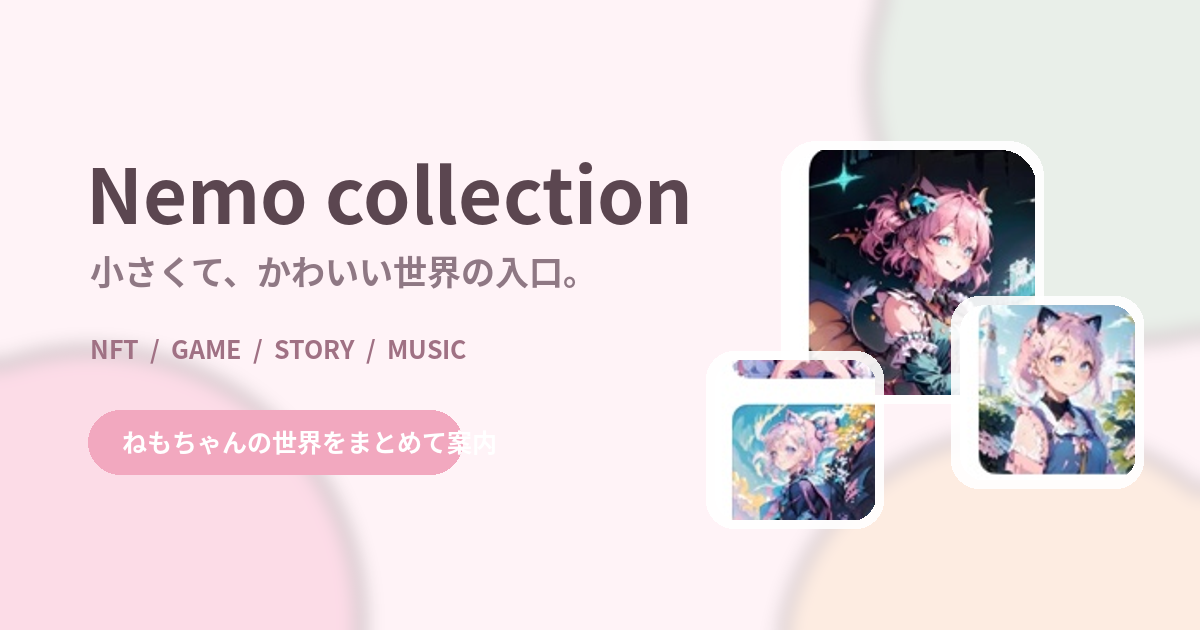
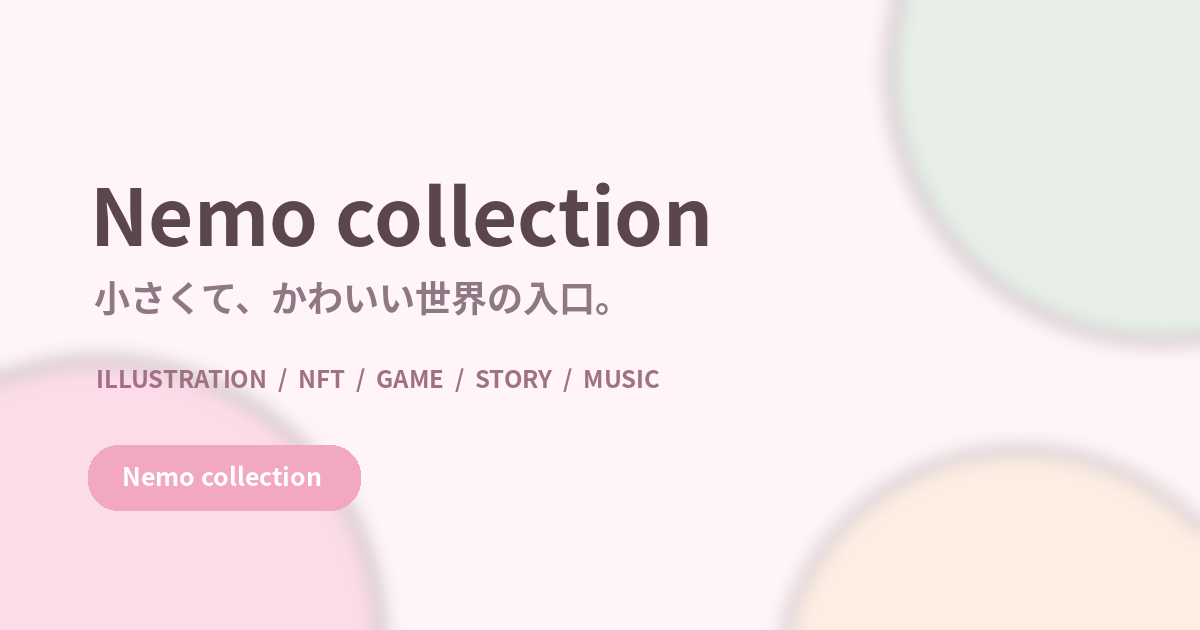
Add files via upload

diff --git a/index.html b/index.html
@@ -15,7 +15,7 @@
   <meta property="og:type" content="website" />
   <meta property="og:site_name" content="Nemo collection" />
   <meta property="og:title" content="Nemo collection（ねもコレ）｜NFT・ゲーム・音楽・物語の公式ポータル" />
-  <meta property="og:description" content="Nemo collection（ねもコレ）の公式ポータル。179体のねもちゃんが暮らすNFTゲーム「ねもの村」、Nemo Mystery、OpenSea NFTコレクション、note、Apple Music、YouTubeなど、ねもちゃんの作品と活動をまとめて紹介します。" />
+  <meta property="og:description" content="Nemo collection（ねもコレ）の公式ポータル。ねもちゃんを中心に、イラスト、NFT、物語、WEBゲーム、音楽など、これまで生まれた作品と活動をまとめています。「ねもの村」「Nemo Mystery」、OpenSea、note、Apple Music、YouTubeなどを案内します。" />
   <meta property="og:url" content="https://haine-cpu7.github.io/nemo-collection-home/" />
   <meta property="og:image" content="https://haine-cpu7.github.io/nemo-collection-home/assets/og-nemo-collection.png" />
   <meta property="og:image:secure_url" content="https://haine-cpu7.github.io/nemo-collection-home/assets/og-nemo-collection.png" />
@@ -25,7 +25,7 @@
 
   <meta name="twitter:card" content="summary_large_image" />
   <meta name="twitter:title" content="Nemo collection（ねもコレ）｜NFT・ゲーム・音楽・物語の公式ポータル" />
-  <meta name="twitter:description" content="Nemo collection（ねもコレ）の公式ポータル。179体のねもちゃんが暮らすNFTゲーム「ねもの村」、Nemo Mystery、OpenSea NFTコレクション、note、Apple Music、YouTubeなど、ねもちゃんの作品と活動をまとめて紹介します。" />
+  <meta name="twitter:description" content="Nemo collection（ねもコレ）の公式ポータル。ねもちゃんを中心に、イラスト、NFT、物語、WEBゲーム、音楽など、これまで生まれた作品と活動をまとめています。「ねもの村」「Nemo Mystery」、OpenSea、note、Apple Music、YouTubeなどを案内します。" />
   <meta name="twitter:image" content="https://haine-cpu7.github.io/nemo-collection-home/assets/og-nemo-collection.png" />
   <meta name="twitter:image:alt" content="Nemo collection - 小さくて、かわいい世界の入口" />
 
@@ -34,7 +34,7 @@
   <link rel="manifest" href="site.webmanifest" />
 
   <title>Nemo collection（ねもコレ）｜NFT・ゲーム・音楽・物語の公式ポータル</title>
-  <meta name="description" content="Nemo collection（ねもコレ）の公式ポータル。179体のねもちゃんが暮らすNFTゲーム「ねもの村」、Nemo Mystery、OpenSea NFTコレクション、note、Apple Music、YouTubeなど、ねもちゃんの作品と活動をまとめて紹介します。" />
+  <meta name="description" content="Nemo collection（ねもコレ）の公式ポータル。ねもちゃんを中心に、イラスト、NFT、物語、WEBゲーム、音楽など、これまで生まれた作品と活動をまとめています。「ねもの村」「Nemo Mystery」、OpenSea、note、Apple Music、YouTubeなどを案内します。" />
   <style>
     :root {
       --paper: #fff8fb;
@@ -350,17 +350,10 @@
       border-color: rgba(242, 168, 191, 0.45);
     }
 
-    .media-card-feature {
-      grid-column: span 2;
-    }
-
     .media-thumb {
       position: relative;
-      min-height: 208px;
+      min-height: 220px;
       padding: 18px;
-      display: flex;
-      align-items: flex-end;
-      justify-content: flex-start;
       overflow: hidden;
     }
 
@@ -368,25 +361,24 @@
     .media-thumb::after {
       content: "";
       position: absolute;
-      border-radius: 28px;
+      border-radius: 32px;
       pointer-events: none;
     }
 
     .media-thumb::before {
-      width: 120px;
-      height: 120px;
-      right: 16px;
-      top: 16px;
-      background: rgba(255,255,255,0.34);
-      box-shadow: inset 0 1px 0 rgba(255,255,255,0.35);
+      width: 132px;
+      height: 132px;
+      right: 18px;
+      top: 18px;
+      background: rgba(255,255,255,0.24);
     }
 
     .media-thumb::after {
-      width: 84px;
-      height: 84px;
-      right: 38px;
-      top: 34px;
-      background: rgba(255,255,255,0.18);
+      width: 94px;
+      height: 94px;
+      left: 20px;
+      bottom: 18px;
+      background: rgba(255,255,255,0.14);
     }
 
     .media-thumb.music {
@@ -401,97 +393,19 @@
       background: linear-gradient(135deg, #f7bfd0 0%, #d9c8ff 50%, #c1efe4 100%);
     }
 
-    .media-thumb.feature {
-      min-height: 250px;
-      align-items: center;
-      justify-content: center;
-      padding: 22px 24px;
-    }
-
-    .media-art {
+    .media-photo {
       position: relative;
-      width: 112px;
-      height: 112px;
-      border-radius: 24px;
-      background: rgba(255,255,255,0.28);
-      border: 1px solid rgba(255,255,255,0.42);
-      box-shadow: 0 12px 24px rgba(79, 57, 70, 0.14);
-      display: grid;
-      place-items: center;
-      font-size: 2.4rem;
-      backdrop-filter: blur(4px);
       z-index: 1;
-      overflow: hidden;
-    }
-
-    .media-art.media-art-tall {
-      width: 136px;
-      height: 136px;
-      border-radius: 28px;
-    }
-
-    .media-art img {
       width: 100%;
-      height: 100%;
-      object-fit: cover;
-      display: block;
-    }
-
-    .media-stack {
-      position: relative;
-      width: min(100%, 360px);
-      height: 190px;
-    }
-
-    .stack-card {
-      position: absolute;
-      width: 138px;
-      height: 138px;
-      border-radius: 28px;
+      height: 184px;
+      border-radius: 24px;
       overflow: hidden;
-      border: 1px solid rgba(255,255,255,0.58);
-      box-shadow: 0 18px 30px rgba(91, 70, 80, 0.14);
-      background: rgba(255,255,255,0.6);
+      border: 1px solid rgba(255,255,255,0.68);
+      box-shadow: 0 14px 28px rgba(79, 57, 70, 0.12);
+      background: rgba(255,255,255,0.38);
     }
 
-    .stack-card img {
-      width: 100%;
-      height: 100%;
-      object-fit: cover;
-      display: block;
-    }
-
-    .stack-a { left: 8px; top: 28px; transform: rotate(-10deg); z-index: 1; }
-    .stack-b { left: 112px; top: 6px; transform: rotate(4deg); z-index: 3; width: 150px; height: 150px; }
-    .stack-c { left: 228px; top: 36px; transform: rotate(10deg); z-index: 2; }
-
-    .media-glow {
-      position: absolute;
-      inset: auto auto 20px 24px;
-      padding: 6px 12px;
-      border-radius: 999px;
-      background: rgba(255,255,255,0.72);
-      color: #8f7180;
-      font-size: 0.74rem;
-      border: 1px solid rgba(255,255,255,0.5);
-      z-index: 4;
-    }
-
-    .hero-sticker {
-      position: absolute;
-      right: clamp(18px, 5vw, 42px);
-      bottom: clamp(18px, 4vw, 34px);
-      width: 74px;
-      height: 74px;
-      border-radius: 22px;
-      overflow: hidden;
-      border: 1px solid rgba(255,255,255,0.56);
-      box-shadow: 0 12px 26px rgba(164, 118, 140, 0.12);
-      opacity: 0.88;
-      background: rgba(255,255,255,0.5);
-    }
-
-    .hero-sticker img {
+    .media-photo img {
       width: 100%;
       height: 100%;
       object-fit: cover;
@@ -527,24 +441,16 @@
     }
 
     @media (max-width: 720px) {
+
       .shell { width: min(100% - 20px, 1080px); padding-top: 16px; }
       .topbar { padding: 5px 3px 14px; }
       .hero { border-radius: 30px; }
       .grid { grid-template-columns: 1fr; }
       .media-grid { grid-template-columns: 1fr; }
-      .media-card-feature { grid-column: span 1; }
-      .media-thumb.feature { min-height: 220px; }
-      .media-stack { width: 100%; height: 168px; }
-      .stack-card { width: 112px; height: 112px; border-radius: 24px; }
-      .stack-a { left: 2px; top: 34px; }
-      .stack-b { left: 84px; top: 8px; width: 124px; height: 124px; }
-      .stack-c { left: 182px; top: 40px; }
-      .media-art.media-art-tall { width: 120px; height: 120px; border-radius: 24px; }
       .section { padding-top: 36px; }
       .section-head { align-items: start; flex-direction: column; gap: 4px; }
       .card { min-height: 0; padding: 19px; }
       .collection-group { padding: 14px; }
-      .hero-sticker { width: 58px; height: 58px; border-radius: 18px; right: 14px; bottom: 14px; }
     }
   </style>
 
@@ -561,7 +467,7 @@
         "ねもコレ",
         "Nemo Collection"
       ],
-      "description": "Nemo collection（ねもコレ）の公式ポータル。179体のねもちゃんが暮らすNFTゲーム「ねもの村」、Nemo Mystery、OpenSea NFTコレクション、note、Apple Music、YouTubeなど、ねもちゃんの作品と活動をまとめて紹介します。",
+      "description": "Nemo collection（ねもコレ）の公式ポータル。ねもちゃんを中心に、イラスト、NFT、物語、WEBゲーム、音楽など、これまで生まれた作品と活動をまとめています。「ねもの村」「Nemo Mystery」、OpenSea、note、Apple Music、YouTubeなどを案内します。",
       "inLanguage": "ja",
       "sameAs": [
         "https://note.com/nemocollection",
@@ -582,7 +488,7 @@
       "@id": "https://haine-cpu7.github.io/nemo-collection-home/#webpage",
       "url": "https://haine-cpu7.github.io/nemo-collection-home/",
       "name": "Nemo collection（ねもコレ）｜NFT・ゲーム・音楽・物語の公式ポータル",
-      "description": "Nemo collection（ねもコレ）の公式ポータル。179体のねもちゃんが暮らすNFTゲーム「ねもの村」、Nemo Mystery、OpenSea NFTコレクション、note、Apple Music、YouTubeなど、ねもちゃんの作品と活動をまとめて紹介します。",
+      "description": "Nemo collection（ねもコレ）の公式ポータル。ねもちゃんを中心に、イラスト、NFT、物語、WEBゲーム、音楽など、これまで生まれた作品と活動をまとめています。「ねもの村」「Nemo Mystery」、OpenSea、note、Apple Music、YouTubeなどを案内します。",
       "isPartOf": {
         "@id": "https://haine-cpu7.github.io/nemo-collection-home/#website"
       },
@@ -602,15 +508,19 @@
         },
         {
           "@type": "Thing",
+          "name": "Illustration"
+        },
+        {
+          "@type": "Thing",
+          "name": "Story"
+        },
+        {
+          "@type": "Thing",
           "name": "NFT"
         },
         {
           "@type": "Thing",
           "name": "Web game"
-        },
-        {
-          "@type": "Thing",
-          "name": "Illustration"
         },
         {
           "@type": "Thing",
@@ -675,11 +585,9 @@
       <h1>Nemo collection</h1>
       <p class="tagline">小さくて、かわいい世界の入口。</p>
       <p class="intro">
-        Nemo collection（ねもコレ）は、ねもちゃんを中心に<br>
-        NFT・WEBゲーム・物語・イラスト・音楽をつないでいく創作プロジェクトです。<br>
-        ここは、その小さな世界をふんわり案内する公式ポータルです。
+        ねもちゃんを中心に、イラスト、NFT、物語、ゲーム、音楽へ。<br>
+        ここは、ねもコレで生まれた作品をふんわりつないでおく場所です。
       </p>
-      <div class="hero-sticker" aria-hidden="true"><img src="assets/cover-aozora.png" alt="" width="74" height="74" decoding="async"></div>
 </section>
 
     <section class="section" id="world" aria-labelledby="world-title">
@@ -753,54 +661,59 @@
 
 
     
+    
+    
     <section class="section" id="music-video" aria-labelledby="media-title">
       <div class="section-head">
         <div>
           <h2 id="media-title">Music / Video</h2>
-          <p class="section-note">ねもちゃんの音楽と動画を、ジャケットと一緒に楽しめるメディア棚。</p>
+          <p class="section-note">ねもちゃんの音楽と動画を楽しめるメディア棚。</p>
         </div>
       </div>
 
       <div class="media-grid">
-        <a class="media-card media-card-feature" href="https://music.apple.com/jp/artist/nemo-collection/1839452063" target="_blank" rel="noopener">
-          <div class="media-thumb music feature">
-            <div class="media-stack" aria-hidden="true">
-              <div class="stack-card stack-a"><img src="assets/cover-kimi.png" alt="" width="138" height="138" loading="lazy" decoding="async"></div>
-              <div class="stack-card stack-b"><img src="assets/cover-aozora.png" alt="" width="150" height="150" loading="lazy" decoding="async"></div>
-              <div class="stack-card stack-c"><img src="assets/cover-kataomoi.png" alt="" width="138" height="138" loading="lazy" decoding="async"></div>
+        <a class="media-card" href="https://music.apple.com/jp/artist/nemo-collection/1839452063" target="_blank" rel="noopener">
+          <div class="media-thumb music">
+            <div class="media-photo">
+              <img src="assets/media-applemusic.png" alt="Apple Music用のねもちゃん画像" width="600" height="600" loading="lazy" decoding="async">
             </div>
-            <div class="media-glow">3 singles</div>
           </div>
           <div class="media-body">
             <span class="media-kicker">MUSIC ↗</span>
             <h3 class="media-title">Apple Music</h3>
-            <p class="media-text">「青空に向かって」「君がいない」「片思い日記」など、ねもコレの音楽をまとめて楽しめる場所。</p>
+            <p class="media-text">ねもコレの音楽をまとめて楽しめる場所。</p>
           </div>
         </a>
 
         <a class="media-card" href="https://www.youtube.com/@tokumori1105" target="_blank" rel="noopener">
           <div class="media-thumb video">
-            <div class="media-art media-art-tall"><img src="assets/cover-kimi.png" alt="Nemo collectionのYouTube動画イメージ" width="136" height="136" loading="lazy" decoding="async"></div>
+            <div class="media-photo">
+              <img src="assets/media-youtube.png" alt="YouTube用のねもちゃん画像" width="600" height="600" loading="lazy" decoding="async">
+            </div>
           </div>
           <div class="media-body">
             <span class="media-kicker">VIDEO ↗</span>
             <h3 class="media-title">YouTube</h3>
-            <p class="media-text">ねもちゃんの動画をまとめて見られる場所。世界観をじっくり味わえます。</p>
+            <p class="media-text">ねもちゃんの動画をまとめて見られる場所。</p>
           </div>
         </a>
 
         <a class="media-card" href="https://www.tiktok.com/@tokumori1105" target="_blank" rel="noopener">
           <div class="media-thumb short">
-            <div class="media-art media-art-tall"><img src="assets/cover-kataomoi.png" alt="Nemo collectionのTikTok動画イメージ" width="136" height="136" loading="lazy" decoding="async"></div>
+            <div class="media-photo">
+              <img src="assets/media-tiktok.png" alt="TikTok用のねもちゃん画像" width="600" height="600" loading="lazy" decoding="async">
+            </div>
           </div>
           <div class="media-body">
             <span class="media-kicker">SHORT VIDEO ↗</span>
             <h3 class="media-title">TikTok</h3>
-            <p class="media-text">ねもちゃんのショート動画を見られる場所。軽やかにのぞけるミニコンテンツ。</p>
+            <p class="media-text">ねもちゃんのショート動画を楽しめる場所。</p>
           </div>
         </a>
       </div>
     </section>
+
+
 
 
     <section class="section" id="nft-collections" aria-labelledby="collection-title">
@@ -1035,19 +948,18 @@
       </div>
 </section>
 
+    
     <section class="section" id="about" aria-labelledby="about-title">
       <div class="about">
         <h2 id="about-title">About Nemo collection</h2>
         <p>
-          Nemo collection（ねもコレ）は2022年11月8日に始まった創作プロジェクトです。
-          NFTから生まれた「ねもちゃん」が、イラスト、物語、WEBゲーム、音楽へと広がり、
-          179体のNemoCollection2023や「ねもの村」「Nemo Mystery」などの作品につながっています。
-        </p>
-        <p>
-          完成を急がず、作りたいものを作る。その足跡を、この場所に残していきます。
+          Nemo collectionは、ねもちゃんから広がった小さな創作世界です。
+          イラスト、NFT、物語、ゲーム、音楽。
+          これまで生まれた作品を、ここにまとめています。
         </p>
       </div>
     </section>
+
 
     <footer>
       Nemo collection · since 2022<br>
